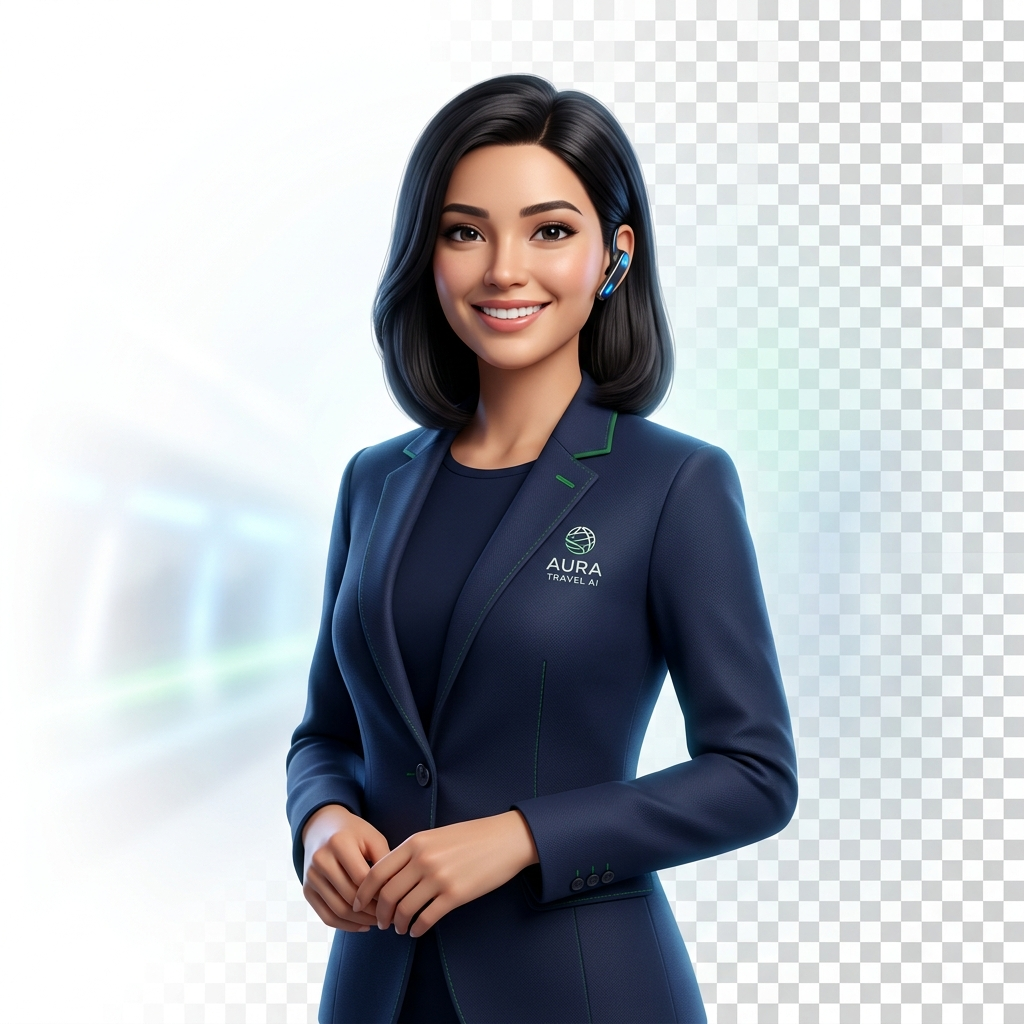
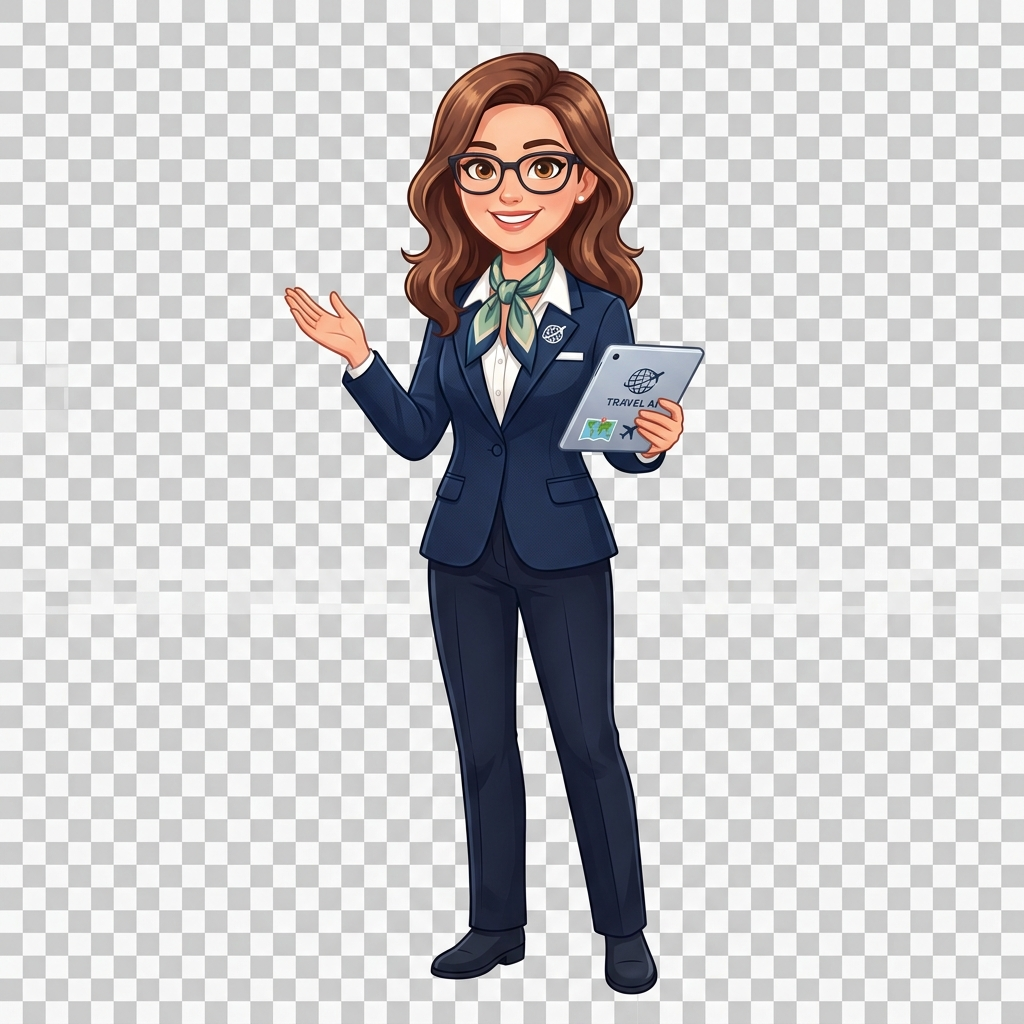
feat: replace assistant with new premium AI girl

diff --git a/src/components/FloatingIcons.tsx b/src/components/FloatingIcons.tsx
@@ -1,14 +1,16 @@
 import { useEffect, useState } from "react";
-import { Plane, Map, Compass, Globe, Luggage, Sun, Umbrella, Camera, Palmtree, MapPin } from "lucide-react";
 
-/* ── Premium outline travel icons ── */
-const ICONS = [Plane, Map, Compass, Globe, Luggage, Sun, Umbrella, Camera, Palmtree, MapPin];
+/* ── Travel emoji set ── */
+const TRAVEL_ICONS = [
+  "✈", "🌍", "🏝", "🧳", "🗺", "⛵", "🏔", "🌴",
+  "🎒", "🚀", "🏖", "🧭", "🌅", "🐚", "☀", "🦩",
+];
 
 interface FloatingIcon {
   id: number;
-  IconComponent: React.ElementType;
+  emoji: string;
   left: number;       // % from left
-  size: number;       // px
+  size: number;       // rem
   duration: number;   // seconds
   delay: number;      // seconds
   opacity: number;
@@ -18,17 +20,17 @@ interface FloatingIcon {
 function generateIcons(count: number): FloatingIcon[] {
   return Array.from({ length: count }, (_, i) => ({
     id: i,
-    IconComponent: ICONS[Math.floor(Math.random() * ICONS.length)],
+    emoji: TRAVEL_ICONS[Math.floor(Math.random() * TRAVEL_ICONS.length)],
     left: Math.random() * 100,
-    size: 24 + Math.random() * 40,
+    size: 1 + Math.random() * 1.8,
     duration: 18 + Math.random() * 30,
-    delay: -(Math.random() * 40),
-    opacity: 0.05 + Math.random() * 0.1,    // very subtle glass-like
+    delay: -(Math.random() * 40),            // negative = already mid-animation
+    opacity: 0.08 + Math.random() * 0.12,    // very subtle
     drift: 30 + Math.random() * 60,
   }));
 }
 
-export function FloatingIcons({ count = 20 }: { count?: number }) {
+export function FloatingIcons({ count = 22 }: { count?: number }) {
   const [icons, setIcons] = useState<FloatingIcon[]>([]);
 
   useEffect(() => {
@@ -43,19 +45,20 @@ export function FloatingIcons({ count = 20 }: { count?: number }) {
       className="pointer-events-none fixed inset-0 z-0 overflow-hidden"
     >
       {icons.map((icon) => (
-        <div
+        <span
           key={icon.id}
-          className="floating-icon absolute block select-none text-white drop-shadow-[0_0_8px_rgba(255,255,255,0.4)]"
+          className="floating-icon absolute block select-none"
           style={{
             left: `${icon.left}%`,
+            fontSize: `${icon.size}rem`,
             opacity: icon.opacity,
             animationDuration: `${icon.duration}s`,
             animationDelay: `${icon.delay}s`,
             ["--drift" as string]: `${icon.drift}px`,
           }}
         >
-          <icon.IconComponent size={icon.size} strokeWidth={1.5} />
-        </div>
+          {icon.emoji}
+        </span>
       ))}
     </div>
   );

diff --git a/src/routes/index.tsx b/src/routes/index.tsx
@@ -75,14 +75,14 @@ function Index() {
           ))}
 
           <div className="relative z-10 mx-auto max-w-[1440px]">
-            {/* Original Avatar style */}
-            <div className="fade-up mx-auto flex h-24 w-24 relative items-center justify-center rounded-full bg-white shadow-soft sm:h-28 sm:w-28">
+            {/* 3D Avatar with glow ring */}
+            <div className="fade-up mx-auto flex h-28 w-28 relative items-center justify-center rounded-full bg-white/10 glass glow-ring shadow-glow-green sm:h-32 sm:w-32">
               <img
                 src={assistantImg}
                 alt="KI-Reiseassistentin"
-                className="h-20 w-20 select-none object-contain sm:h-24 sm:w-24"
+                className="h-24 w-24 select-none object-contain drop-shadow-lg sm:h-28 sm:w-28"
               />
-              <span className="absolute bottom-1 right-1 h-4 w-4 rounded-full bg-[#16a34a] ring-2 ring-white sm:bottom-2 sm:right-2" />
+              <span className="absolute bottom-2 right-2 h-5 w-5 rounded-full bg-[#0d9e4f] ring-3 ring-white/30 shadow-glow-green" />
             </div>
 
             {/* Hero Title with gradient text */}
